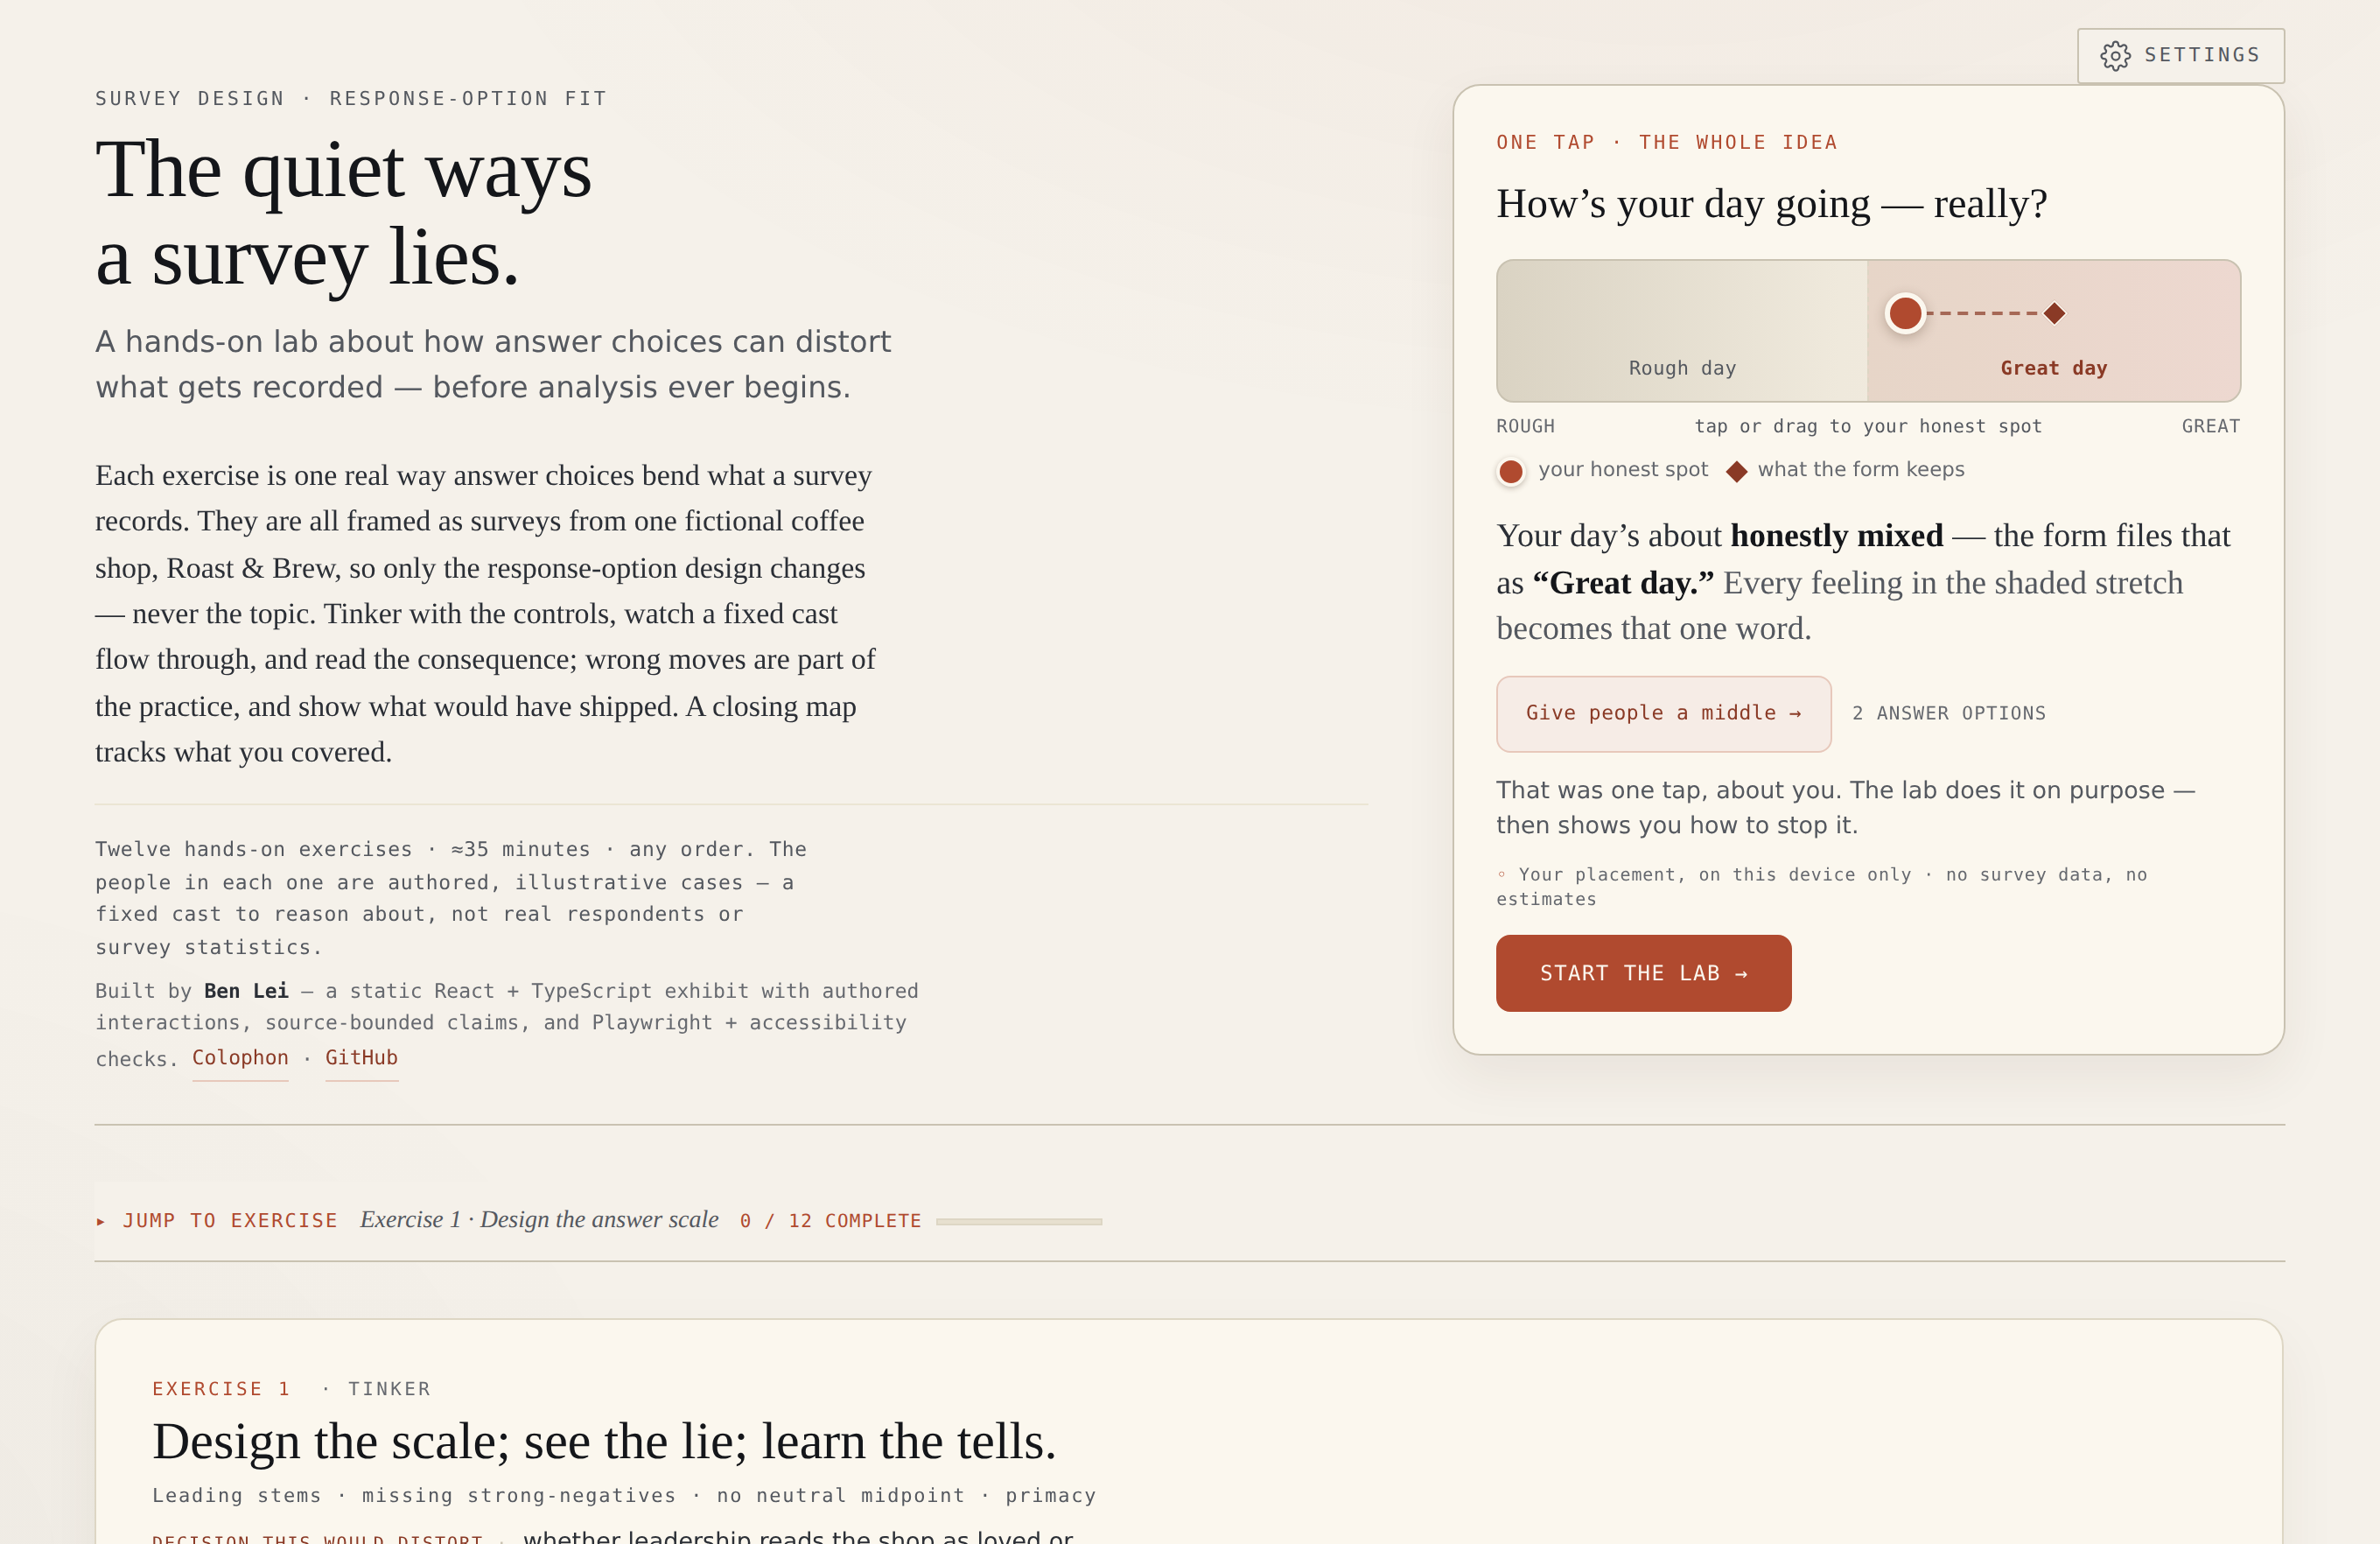
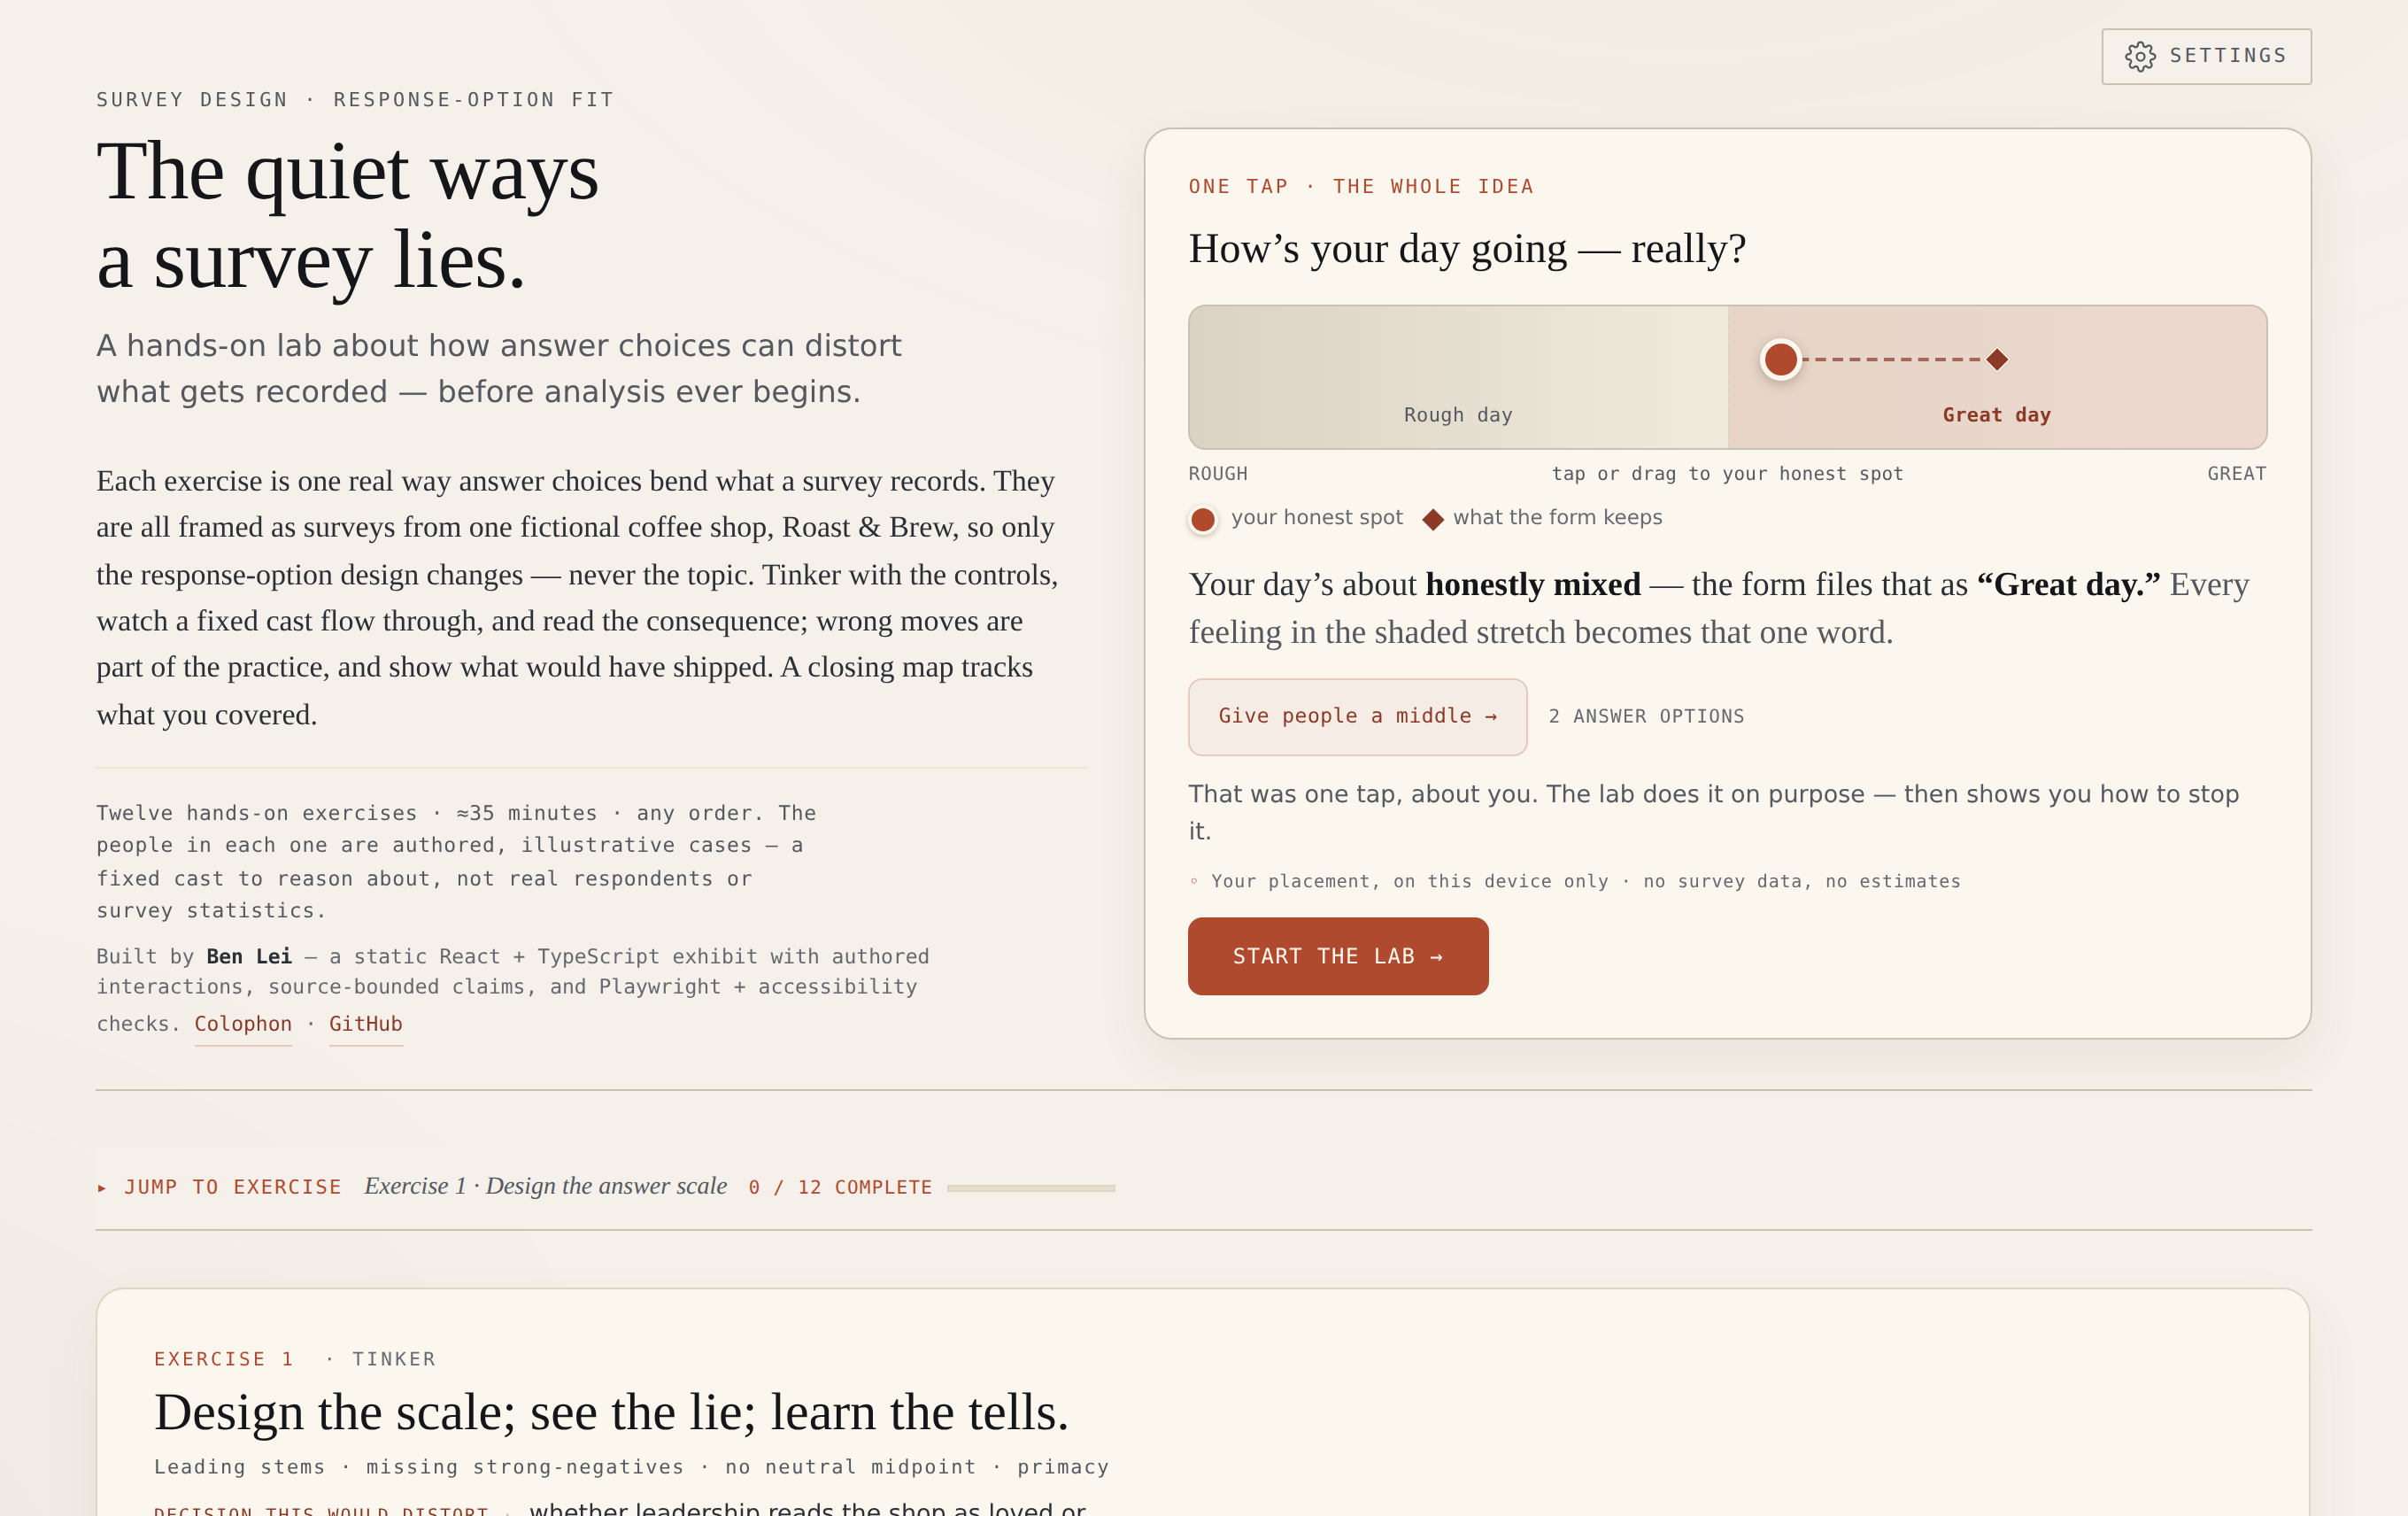
Close the hero's column gap and clear the Settings button
Cap the text column and let the hook fill to the right edge, so the channel between the prose and the hook is no wider than the page margins — it had pooled the text column's slack against the gutter. Widen the orientation measure so the text fills its column and the two columns sit roughly even. Drop the hook to the headline's baseline so it clears the Settings button in the corner.

diff --git a/src/index.css b/src/index.css
@@ -613,7 +613,13 @@ summary:focus-visible {
 
 .lab-route-head {
   display: grid;
-  grid-template-columns: minmax(0, 1fr) clamp(360px, 38%, 480px);
+  /* The TEXT column is capped to hug its measure and the HOOK column is the
+     greedy one that fills to the right edge. (The reverse — greedy text, capped
+     hook — pooled the text's leftover slack against the gutter, making the
+     inter-column gap read far wider than the outer page margins.) Now the gap is
+     just the column-gap, the hook still lines up with the exercise cards below,
+     and both hero edges stay flush with the content column. */
+  grid-template-columns: minmax(0, 560px) minmax(400px, 1fr);
   grid-template-areas:
     "lead hook"
     "rest hook";
@@ -622,7 +628,7 @@ summary:focus-visible {
      stays put instead of ballooning. */
   grid-template-rows: auto 1fr;
   align-items: start;
-  column-gap: var(--s-7);
+  column-gap: var(--s-6);
   row-gap: var(--s-5);
   border-bottom: 1px solid var(--line);
   padding-bottom: var(--s-5);
@@ -684,14 +690,15 @@ summary:focus-visible {
 }
 
 /* Orientation paragraph: serif so the left "body" shares the warm editorial
-   voice of the hook's serif readout across the gutter. */
+   voice of the hook's serif readout across the gutter. ~64ch fills the text
+   column so the channel to the hook stays as tight as the page margins. */
 .lab-route-lede {
   margin: 0;
   font-family: var(--font-serif);
   font-size: 17px;
   line-height: 1.55;
   color: var(--ink-2);
-  max-width: 54ch;
+  max-width: 64ch;
 }
 
 .lab-route-meta {
@@ -727,22 +734,29 @@ summary:focus-visible {
 }
 
 /* The hook is the hero's right column: fill the column and drop the
-   stand-alone margin/measure it carries when it lays out on its own. */
+   stand-alone measure it carries when it lays out on its own. The top margin
+   drops the card to the headline's baseline so it clears the absolutely
+   positioned Settings button in the top-right corner. */
 .lab-route-head .lab-hook {
   grid-area: hook;
-  margin: 0;
+  margin: var(--s-5) 0 0;
   max-width: none;
   width: 100%;
   align-self: start;
 }
 
-/* Tablet / phone: one column, hook kept high via the flat DOM order. */
+/* Tablet / phone: one column, hook kept high via the flat DOM order. The
+   single-column flow already clears the Settings button, so drop the desktop
+   top-margin and let the flex gap space the hook. */
 @media (max-width: 880px) {
   .lab-route-head {
     display: flex;
     flex-direction: column;
     gap: var(--s-5);
     padding-bottom: var(--s-5);
+  }
+  .lab-route-head .lab-hook {
+    margin-top: 0;
   }
   .lab-route-title {
     font-size: clamp(30px, 7vw, 44px);